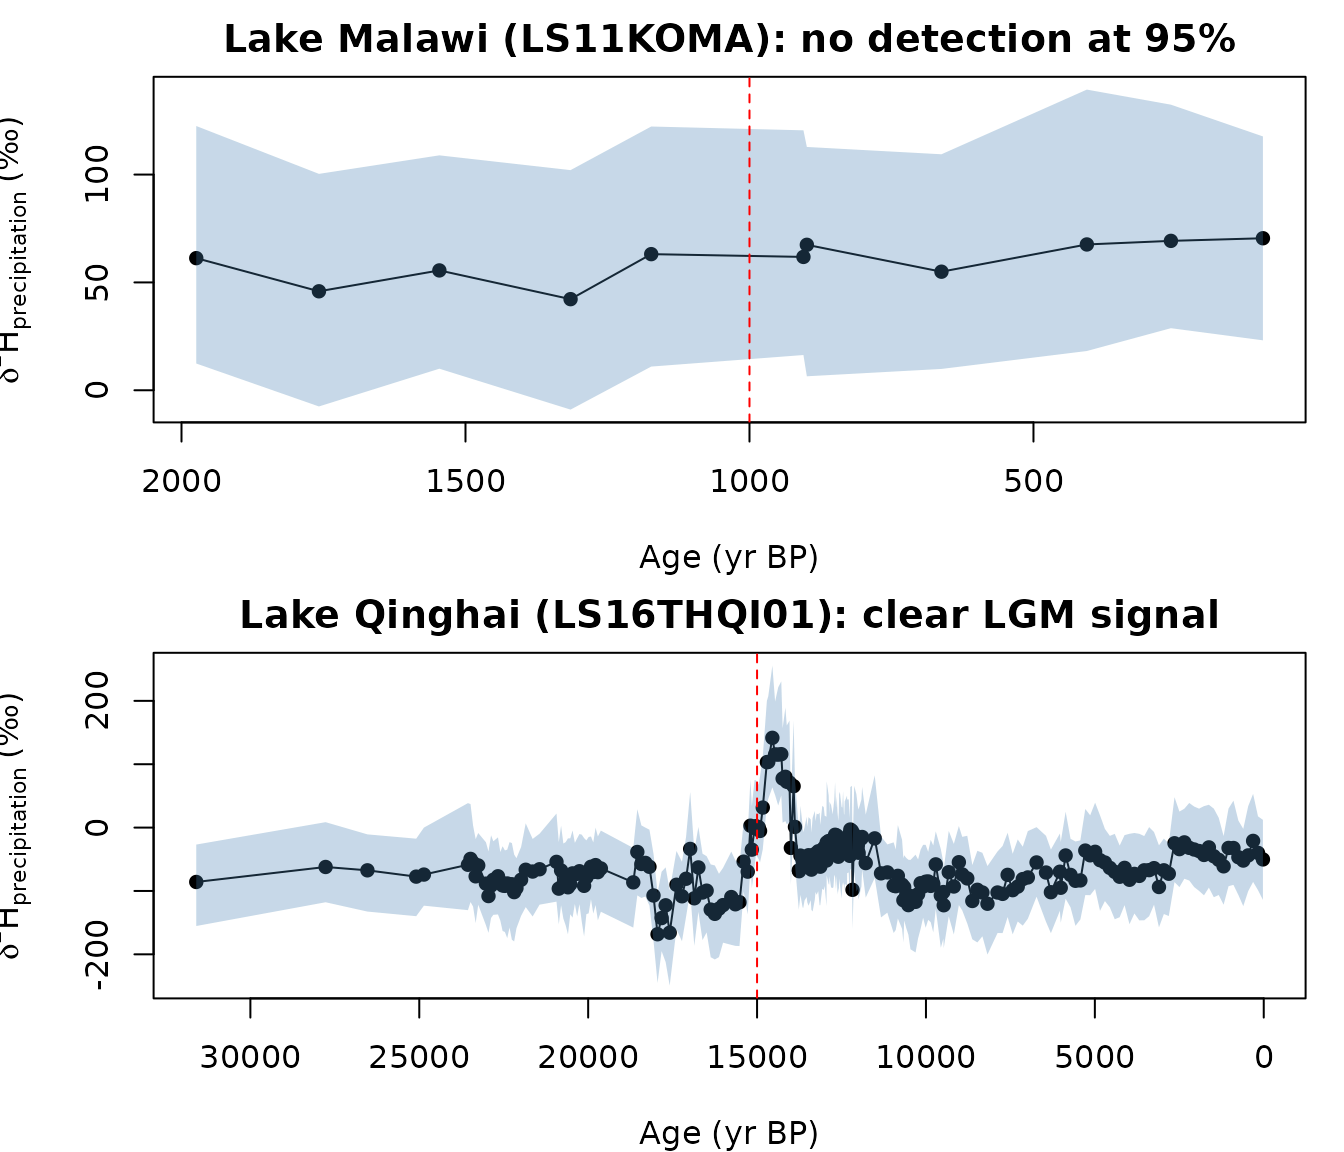
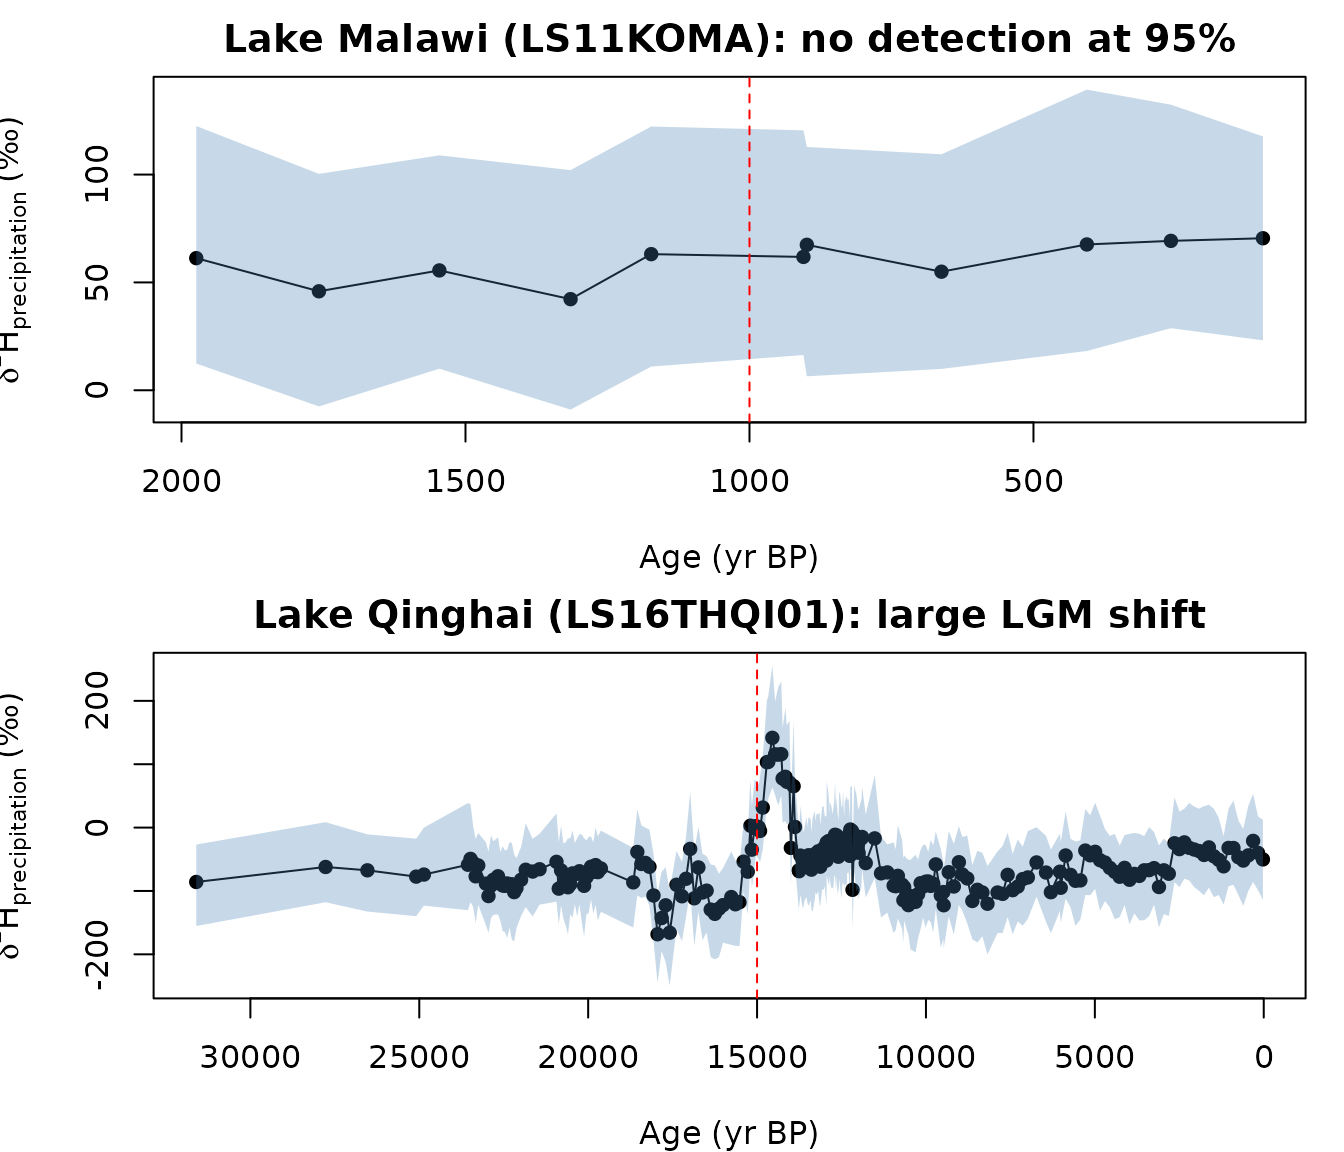
Deploying to gh-pages from @ bradleylab/leafwax@17c9dfbdf737078aeeec0afad36091e8e5ce56b1 🚀

Changed region(s): [[0.1875, 0.5, 0.9062, 0.5625]]

diff --git a/articles/paleo-record-workflow.html b/articles/paleo-record-workflow.html
@@ -64,17 +64,18 @@ enough to support a published claim of change. The central question for
 any record is whether the difference in <code>d2H_precip</code> between
 two stratigraphic intervals can be distinguished from
 calibration-plus-analytical noise, and at what confidence level.</p>
-<p>The vignette runs the chain on two Iso2k records that produce
-opposite verdicts. Lake Malawi (LS11KOMA, Konecky et al.) has 11 samples
-across the Common Era and an in-record <code>d2H_wax</code> range of
-approximately 10 per mil — a record where no plausible 30 per mil shift
-in <code>d2H_precip</code> can be distinguished from within-record
-noise. Lake Qinghai (LS16THQI01, Thomas et al.) has 240 samples spanning
-31 kyr of the glacial-to-Holocene transition on the northeastern Tibetan
-Plateau, with strong sample-to-sample autocorrelation that shrinks the
-detection threshold; here a substantial drying signal across the Last
-Glacial Maximum boundary is recovered with high posterior
-probability.</p>
+<p>The vignette runs the chain on two Iso2k records with different
+inferential ceilings. Lake Malawi (LS11KOMA, Konecky et al.) has 11
+samples across the Common Era and an in-record <code>d2H_wax</code>
+range of approximately 10 per mil — a record where no plausible 30 per
+mil shift in <code>d2H_precip</code> can be distinguished from
+within-record noise. Lake Qinghai (LS16THQI01, Thomas et al.) has 240
+samples spanning 31 kyr of the glacial-to-Holocene transition on the
+northeastern Tibetan Plateau. Its large LGM-to-Holocene shift and strong
+sample-to-sample autocorrelation support a directional
+hydroclimate-change claim, but the example 30 per mil quantitative
+<code>d2H_precip</code> claim still does not clear the 95 percent Level
+3 threshold.</p>
 <p>The detection threshold from manuscript Section 4.5.3 is</p>
 <p><math display="block" xmlns="http://www.w3.org/1998/Math/MathML"><semantics><mrow><msub><mrow><mi mathvariant="normal">t</mi><mi mathvariant="normal">h</mi><mi mathvariant="normal">r</mi><mi mathvariant="normal">e</mi><mi mathvariant="normal">s</mi><mi mathvariant="normal">h</mi><mi mathvariant="normal">o</mi><mi mathvariant="normal">l</mi><mi mathvariant="normal">d</mi></mrow><mrow><mi mathvariant="normal">p</mi><mi mathvariant="normal">r</mi><mi mathvariant="normal">e</mi><mi mathvariant="normal">c</mi><mi mathvariant="normal">i</mi><mi mathvariant="normal">p</mi></mrow></msub><mo>=</mo><mfrac><mrow><mn>1.96</mn><msqrt><mrow><mn>2</mn><mo stretchy="false" form="prefix">(</mo><mn>1</mn><mo>−</mo><msub><mi>ρ</mi><mi>t</mi></msub><mo stretchy="false" form="postfix">)</mo></mrow></msqrt><mspace width="0.167em"></mspace><msqrt><mrow><msubsup><mi>σ</mi><mrow><mi mathvariant="normal">r</mi><mi mathvariant="normal">e</mi><mi mathvariant="normal">s</mi><mi mathvariant="normal">i</mi><mi mathvariant="normal">d</mi><mi mathvariant="normal">u</mi><mi mathvariant="normal">a</mi><mi mathvariant="normal">l</mi></mrow><mn>2</mn></msubsup><mo>+</mo><msubsup><mi>σ</mi><mrow><mi mathvariant="normal">a</mi><mi mathvariant="normal">n</mi><mi mathvariant="normal">a</mi><mi mathvariant="normal">l</mi><mi mathvariant="normal">y</mi><mi mathvariant="normal">t</mi><mi mathvariant="normal">i</mi><mi mathvariant="normal">c</mi><mi mathvariant="normal">a</mi><mi mathvariant="normal">l</mi></mrow><mn>2</mn></msubsup></mrow></msqrt></mrow><msub><mi>β</mi><mrow><mi mathvariant="normal">e</mi><mi mathvariant="normal">f</mi><mi mathvariant="normal">f</mi></mrow></msub></mfrac></mrow><annotation encoding="application/x-tex">
 \mathrm{threshold}_{\mathrm{precip}}
@@ -92,18 +93,27 @@ and cancels in any contrast between intervals.</p>
 <div class="sourceCode" id="cb1"><pre class="downlit sourceCode r">
 <code class="sourceCode R"><span><span class="kw"><a href="https://rdrr.io/r/base/library.html" class="external-link">library</a></span><span class="op">(</span><span class="va"><a href="https://github.com/bradleylab/leafwax" class="external-link">leafwax</a></span><span class="op">)</span></span>
 <span></span>
-<span><span class="va">malawi_path</span> <span class="op">&lt;-</span> <span class="fu"><a href="https://rdrr.io/r/base/system.file.html" class="external-link">system.file</a></span><span class="op">(</span></span>
-<span>  <span class="st">"extdata"</span>, <span class="st">"example_records"</span>, <span class="st">"LS11KOMA_d2H.csv"</span>,</span>
-<span>  package <span class="op">=</span> <span class="st">"leafwax"</span></span>
-<span><span class="op">)</span></span>
+<span><span class="va">record_path</span> <span class="op">&lt;-</span> <span class="kw">function</span><span class="op">(</span><span class="va">filename</span><span class="op">)</span> <span class="op">{</span></span>
+<span>  <span class="va">path</span> <span class="op">&lt;-</span> <span class="fu"><a href="https://rdrr.io/r/base/system.file.html" class="external-link">system.file</a></span><span class="op">(</span></span>
+<span>    <span class="st">"extdata"</span>, <span class="st">"example_records"</span>, <span class="va">filename</span>,</span>
+<span>    package <span class="op">=</span> <span class="st">"leafwax"</span></span>
+<span>  <span class="op">)</span></span>
+<span>  <span class="kw">if</span> <span class="op">(</span><span class="fu"><a href="https://rdrr.io/r/base/nchar.html" class="external-link">nzchar</a></span><span class="op">(</span><span class="va">path</span><span class="op">)</span><span class="op">)</span> <span class="kw"><a href="https://rdrr.io/r/base/function.html" class="external-link">return</a></span><span class="op">(</span><span class="va">path</span><span class="op">)</span></span>
+<span></span>
+<span>  <span class="va">local_path</span> <span class="op">&lt;-</span> <span class="fu"><a href="https://rdrr.io/r/base/file.path.html" class="external-link">file.path</a></span><span class="op">(</span></span>
+<span>    <span class="st">".."</span>, <span class="st">"inst"</span>, <span class="st">"extdata"</span>, <span class="st">"example_records"</span>, <span class="va">filename</span></span>
+<span>  <span class="op">)</span></span>
+<span>  <span class="kw">if</span> <span class="op">(</span><span class="fu"><a href="https://rdrr.io/r/base/files.html" class="external-link">file.exists</a></span><span class="op">(</span><span class="va">local_path</span><span class="op">)</span><span class="op">)</span> <span class="kw"><a href="https://rdrr.io/r/base/function.html" class="external-link">return</a></span><span class="op">(</span><span class="va">local_path</span><span class="op">)</span></span>
+<span></span>
+<span>  <span class="kw"><a href="https://rdrr.io/r/base/stop.html" class="external-link">stop</a></span><span class="op">(</span><span class="st">"Could not locate example record: "</span>, <span class="va">filename</span><span class="op">)</span></span>
+<span><span class="op">}</span></span>
+<span></span>
+<span><span class="va">malawi_path</span> <span class="op">&lt;-</span> <span class="fu">record_path</span><span class="op">(</span><span class="st">"LS11KOMA_d2H.csv"</span><span class="op">)</span></span>
 <span><span class="va">malawi</span> <span class="op">&lt;-</span> <span class="fu"><a href="https://rdrr.io/r/utils/read.table.html" class="external-link">read.csv</a></span><span class="op">(</span><span class="va">malawi_path</span><span class="op">)</span></span>
 <span><span class="va">malawi</span><span class="op">$</span><span class="va">d2h_wax</span> <span class="op">&lt;-</span> <span class="va">malawi</span><span class="op">$</span><span class="va">d2H_wax</span></span>
 <span><span class="va">malawi</span><span class="op">$</span><span class="va">age</span>     <span class="op">&lt;-</span> <span class="va">malawi</span><span class="op">$</span><span class="va">age_yrBP</span></span>
 <span></span>
-<span><span class="va">qh_path</span> <span class="op">&lt;-</span> <span class="fu"><a href="https://rdrr.io/r/base/system.file.html" class="external-link">system.file</a></span><span class="op">(</span></span>
-<span>  <span class="st">"extdata"</span>, <span class="st">"example_records"</span>, <span class="st">"LS16THQI01_d2H.csv"</span>,</span>
-<span>  package <span class="op">=</span> <span class="st">"leafwax"</span></span>
-<span><span class="op">)</span></span>
+<span><span class="va">qh_path</span> <span class="op">&lt;-</span> <span class="fu">record_path</span><span class="op">(</span><span class="st">"LS16THQI01_d2H.csv"</span><span class="op">)</span></span>
 <span><span class="va">qh</span> <span class="op">&lt;-</span> <span class="fu"><a href="https://rdrr.io/r/utils/read.table.html" class="external-link">read.csv</a></span><span class="op">(</span><span class="va">qh_path</span><span class="op">)</span></span>
 <span><span class="va">qh</span><span class="op">$</span><span class="va">d2h_wax</span> <span class="op">&lt;-</span> <span class="va">qh</span><span class="op">$</span><span class="va">d2H_wax</span></span>
 <span><span class="va">qh</span><span class="op">$</span><span class="va">age</span>     <span class="op">&lt;-</span> <span class="va">qh</span><span class="op">$</span><span class="va">age_yrBP</span></span>
@@ -291,14 +301,16 @@ Asian-monsoon records show a regional shift in source-water
 <span><span class="co">#&gt; 1      lgm        162     74  -37.10131    -35.58982   -57.77988   -25.12177</span></span>
 <span><span class="co">#&gt;   p_abs_delta_gt_10 p_abs_delta_gt_30 p_abs_delta_gt_50</span></span>
 <span><span class="co">#&gt; 1                 1              0.78              0.08</span></span></code></pre></div>
-<p>The two records produce opposite verdicts. Malawi: lag-1
+<p>The two records produce different verdicts. Malawi: lag-1
 autocorrelation 0.39, 95 percent detection threshold approximately 61
 per mil, posterior probability of a 30 per mil shift across 1000 yr BP
 0.12. Qinghai: lag-1 autocorrelation 0.85 (densely sampled and strongly
 persistent), threshold approximately 42 per mil, posterior probability
 of a 30 per mil shift across 15,000 yr BP 0.78. The Malawi record cannot
 distinguish a 30 per mil change in <code>d2H_precip</code> from
-calibration noise; the Qinghai record can. Two factors drive the
+calibration noise. The Qinghai record provides much stronger evidence
+for a large LGM-to-Holocene shift, but the 30 per mil quantitative claim
+remains below the 95 percent decision threshold. Two factors drive the
 contrast: Qinghai’s much larger LGM-to-Holocene <code>d2H_wax</code>
 shift, and its high autocorrelation, which reduces
 <code>sqrt(2(1-rho_t))</code> and pulls the threshold down.</p>
@@ -381,9 +393,10 @@ highest level where every prerequisite passes.</p>
 <p>Read each <code>verdict$levels</code> data frame top to bottom —
 every level above the highest one passed is reported with the reason it
 failed. The Malawi claim fails at the within-record noise step; the
-Qinghai claim clears all four levels because the wax-side
-LGM-to-Holocene change is large relative to noise and the asserted
-stationarity evidence holds.</p>
+Qinghai claim clears Level 2 for the asserted 30 per mil Level 4 claim.
+It fails Level 3 because the posterior probability for a 30 per mil
+<code>d2H_precip</code> shift is below 0.95, even though the example
+supplies stationarity evidence for the Level 4 controls.</p>
 </div>
 <div class="section level2">
 <h2 id="plot-the-reconstructions">6. Plot the reconstructions<a class="anchor" aria-label="anchor" href="#plot-the-reconstructions"></a>
@@ -417,7 +430,7 @@ stationarity evidence holds.</p>
 <span>           <span class="st">"Lake Malawi (LS11KOMA): no detection at 95%"</span>,</span>
 <span>           boundary <span class="op">=</span> <span class="fl">1000</span><span class="op">)</span></span>
 <span><span class="fu">plot_recon</span><span class="op">(</span><span class="va">recon_qh</span>, <span class="va">qh</span><span class="op">$</span><span class="va">age</span>,</span>
-<span>           <span class="st">"Lake Qinghai (LS16THQI01): clear LGM signal"</span>,</span>
+<span>           <span class="st">"Lake Qinghai (LS16THQI01): large LGM shift"</span>,</span>
 <span>           boundary <span class="op">=</span> <span class="fl">15000</span><span class="op">)</span></span></code></pre></div>
 <p><img src="paleo-record-workflow_files/figure-html/plot-1.png" class="r-plt" alt="" width="672"></p>
 <div class="sourceCode" id="cb7"><pre class="downlit sourceCode r">
@@ -439,9 +452,10 @@ temporal autocorrelation. <code><a href="../reference/detect_change.html">detect
 into a single threshold and a posterior probability;
 <code><a href="../reference/assess_claim.html">assess_claim()</a></code> walks them through the four-level taxonomy.
 Records like Malawi do not clear Level 2 for plausible 30 per mil
-claims; long, densely-sampled records like Qinghai do, because their
-large interval-mean shifts and high sample-to-sample autocorrelation
-jointly raise signal-to-noise above the calibration’s noise floor.</p>
+claims. Long, densely sampled records like Qinghai can clear directional
+hydroclimate-change claims and provide much stronger quantitative
+evidence, but the example 30 per mil Level 4 claim still requires
+posterior support at the chosen confidence level.</p>
 </div>
 <div class="section level2">
 <h2 id="notes">Notes<a class="anchor" aria-label="anchor" href="#notes"></a>

diff --git a/articles/paleo-record-workflow.md b/articles/paleo-record-workflow.md
@@ -7,16 +7,17 @@ whether the difference in `d2H_precip` between two stratigraphic
 intervals can be distinguished from calibration-plus-analytical noise,
 and at what confidence level.
 
-The vignette runs the chain on two Iso2k records that produce opposite
-verdicts. Lake Malawi (LS11KOMA, Konecky et al.) has 11 samples across
-the Common Era and an in-record `d2H_wax` range of approximately 10 per
-mil — a record where no plausible 30 per mil shift in `d2H_precip` can
-be distinguished from within-record noise. Lake Qinghai (LS16THQI01,
-Thomas et al.) has 240 samples spanning 31 kyr of the
-glacial-to-Holocene transition on the northeastern Tibetan Plateau, with
-strong sample-to-sample autocorrelation that shrinks the detection
-threshold; here a substantial drying signal across the Last Glacial
-Maximum boundary is recovered with high posterior probability.
+The vignette runs the chain on two Iso2k records with different
+inferential ceilings. Lake Malawi (LS11KOMA, Konecky et al.) has 11
+samples across the Common Era and an in-record `d2H_wax` range of
+approximately 10 per mil — a record where no plausible 30 per mil shift
+in `d2H_precip` can be distinguished from within-record noise. Lake
+Qinghai (LS16THQI01, Thomas et al.) has 240 samples spanning 31 kyr of
+the glacial-to-Holocene transition on the northeastern Tibetan Plateau.
+Its large LGM-to-Holocene shift and strong sample-to-sample
+autocorrelation support a directional hydroclimate-change claim, but the
+example 30 per mil quantitative `d2H_precip` claim still does not clear
+the 95 percent Level 3 threshold.
 
 The detection threshold from manuscript Section 4.5.3 is
 
@@ -38,18 +39,27 @@ in any contrast between intervals.
 
 library(leafwax)
 
-malawi_path <- system.file(
-  "extdata", "example_records", "LS11KOMA_d2H.csv",
-  package = "leafwax"
-)
+record_path <- function(filename) {
+  path <- system.file(
+    "extdata", "example_records", filename,
+    package = "leafwax"
+  )
+  if (nzchar(path)) return(path)
+
+  local_path <- file.path(
+    "..", "inst", "extdata", "example_records", filename
+  )
+  if (file.exists(local_path)) return(local_path)
+
+  stop("Could not locate example record: ", filename)
+}
+
+malawi_path <- record_path("LS11KOMA_d2H.csv")
 malawi <- read.csv(malawi_path)
 malawi$d2h_wax <- malawi$d2H_wax
 malawi$age     <- malawi$age_yrBP
 
-qh_path <- system.file(
-  "extdata", "example_records", "LS16THQI01_d2H.csv",
-  package = "leafwax"
-)
+qh_path <- record_path("LS16THQI01_d2H.csv")
 qh <- read.csv(qh_path)
 qh$d2h_wax <- qh$d2H_wax
 qh$age     <- qh$age_yrBP
@@ -247,16 +257,19 @@ list(
 #> 1                 1              0.78              0.08
 ```
 
-The two records produce opposite verdicts. Malawi: lag-1 autocorrelation
-0.39, 95 percent detection threshold approximately 61 per mil, posterior
-probability of a 30 per mil shift across 1000 yr BP 0.12. Qinghai: lag-1
-autocorrelation 0.85 (densely sampled and strongly persistent),
-threshold approximately 42 per mil, posterior probability of a 30 per
-mil shift across 15,000 yr BP 0.78. The Malawi record cannot distinguish
-a 30 per mil change in `d2H_precip` from calibration noise; the Qinghai
-record can. Two factors drive the contrast: Qinghai’s much larger
-LGM-to-Holocene `d2H_wax` shift, and its high autocorrelation, which
-reduces `sqrt(2(1-rho_t))` and pulls the threshold down.
+The two records produce different verdicts. Malawi: lag-1
+autocorrelation 0.39, 95 percent detection threshold approximately 61
+per mil, posterior probability of a 30 per mil shift across 1000 yr BP
+0.12. Qinghai: lag-1 autocorrelation 0.85 (densely sampled and strongly
+persistent), threshold approximately 42 per mil, posterior probability
+of a 30 per mil shift across 15,000 yr BP 0.78. The Malawi record cannot
+distinguish a 30 per mil change in `d2H_precip` from calibration noise.
+The Qinghai record provides much stronger evidence for a large
+LGM-to-Holocene shift, but the 30 per mil quantitative claim remains
+below the 95 percent decision threshold. Two factors drive the contrast:
+Qinghai’s much larger LGM-to-Holocene `d2H_wax` shift, and its high
+autocorrelation, which reduces `sqrt(2(1-rho_t))` and pulls the
+threshold down.
 
 ## 5. Assess a published claim
 
@@ -339,8 +352,10 @@ c(malawi_highest_level   = verdict_malawi$highest_level,
 Read each `verdict$levels` data frame top to bottom — every level above
 the highest one passed is reported with the reason it failed. The Malawi
 claim fails at the within-record noise step; the Qinghai claim clears
-all four levels because the wax-side LGM-to-Holocene change is large
-relative to noise and the asserted stationarity evidence holds.
+Level 2 for the asserted 30 per mil Level 4 claim. It fails Level 3
+because the posterior probability for a 30 per mil `d2H_precip` shift is
+below 0.95, even though the example supplies stationarity evidence for
+the Level 4 controls.
 
 ## 6. Plot the reconstructions
 
@@ -374,7 +389,7 @@ plot_recon(recon_malawi, malawi$age,
            "Lake Malawi (LS11KOMA): no detection at 95%",
            boundary = 1000)
 plot_recon(recon_qh, qh$age,
-           "Lake Qinghai (LS16THQI01): clear LGM signal",
+           "Lake Qinghai (LS16THQI01): large LGM shift",
            boundary = 15000)
 ```
 
@@ -401,10 +416,11 @@ effective slope, and the lag-1 temporal autocorrelation.
 packages these into a single threshold and a posterior probability;
 [`assess_claim()`](https://bradleylab.github.io/leafwax/reference/assess_claim.md)
 walks them through the four-level taxonomy. Records like Malawi do not
-clear Level 2 for plausible 30 per mil claims; long, densely-sampled
-records like Qinghai do, because their large interval-mean shifts and
-high sample-to-sample autocorrelation jointly raise signal-to-noise
-above the calibration’s noise floor.
+clear Level 2 for plausible 30 per mil claims. Long, densely sampled
+records like Qinghai can clear directional hydroclimate-change claims
+and provide much stronger quantitative evidence, but the example 30 per
+mil Level 4 claim still requires posterior support at the chosen
+confidence level.
 
 ## Notes
 